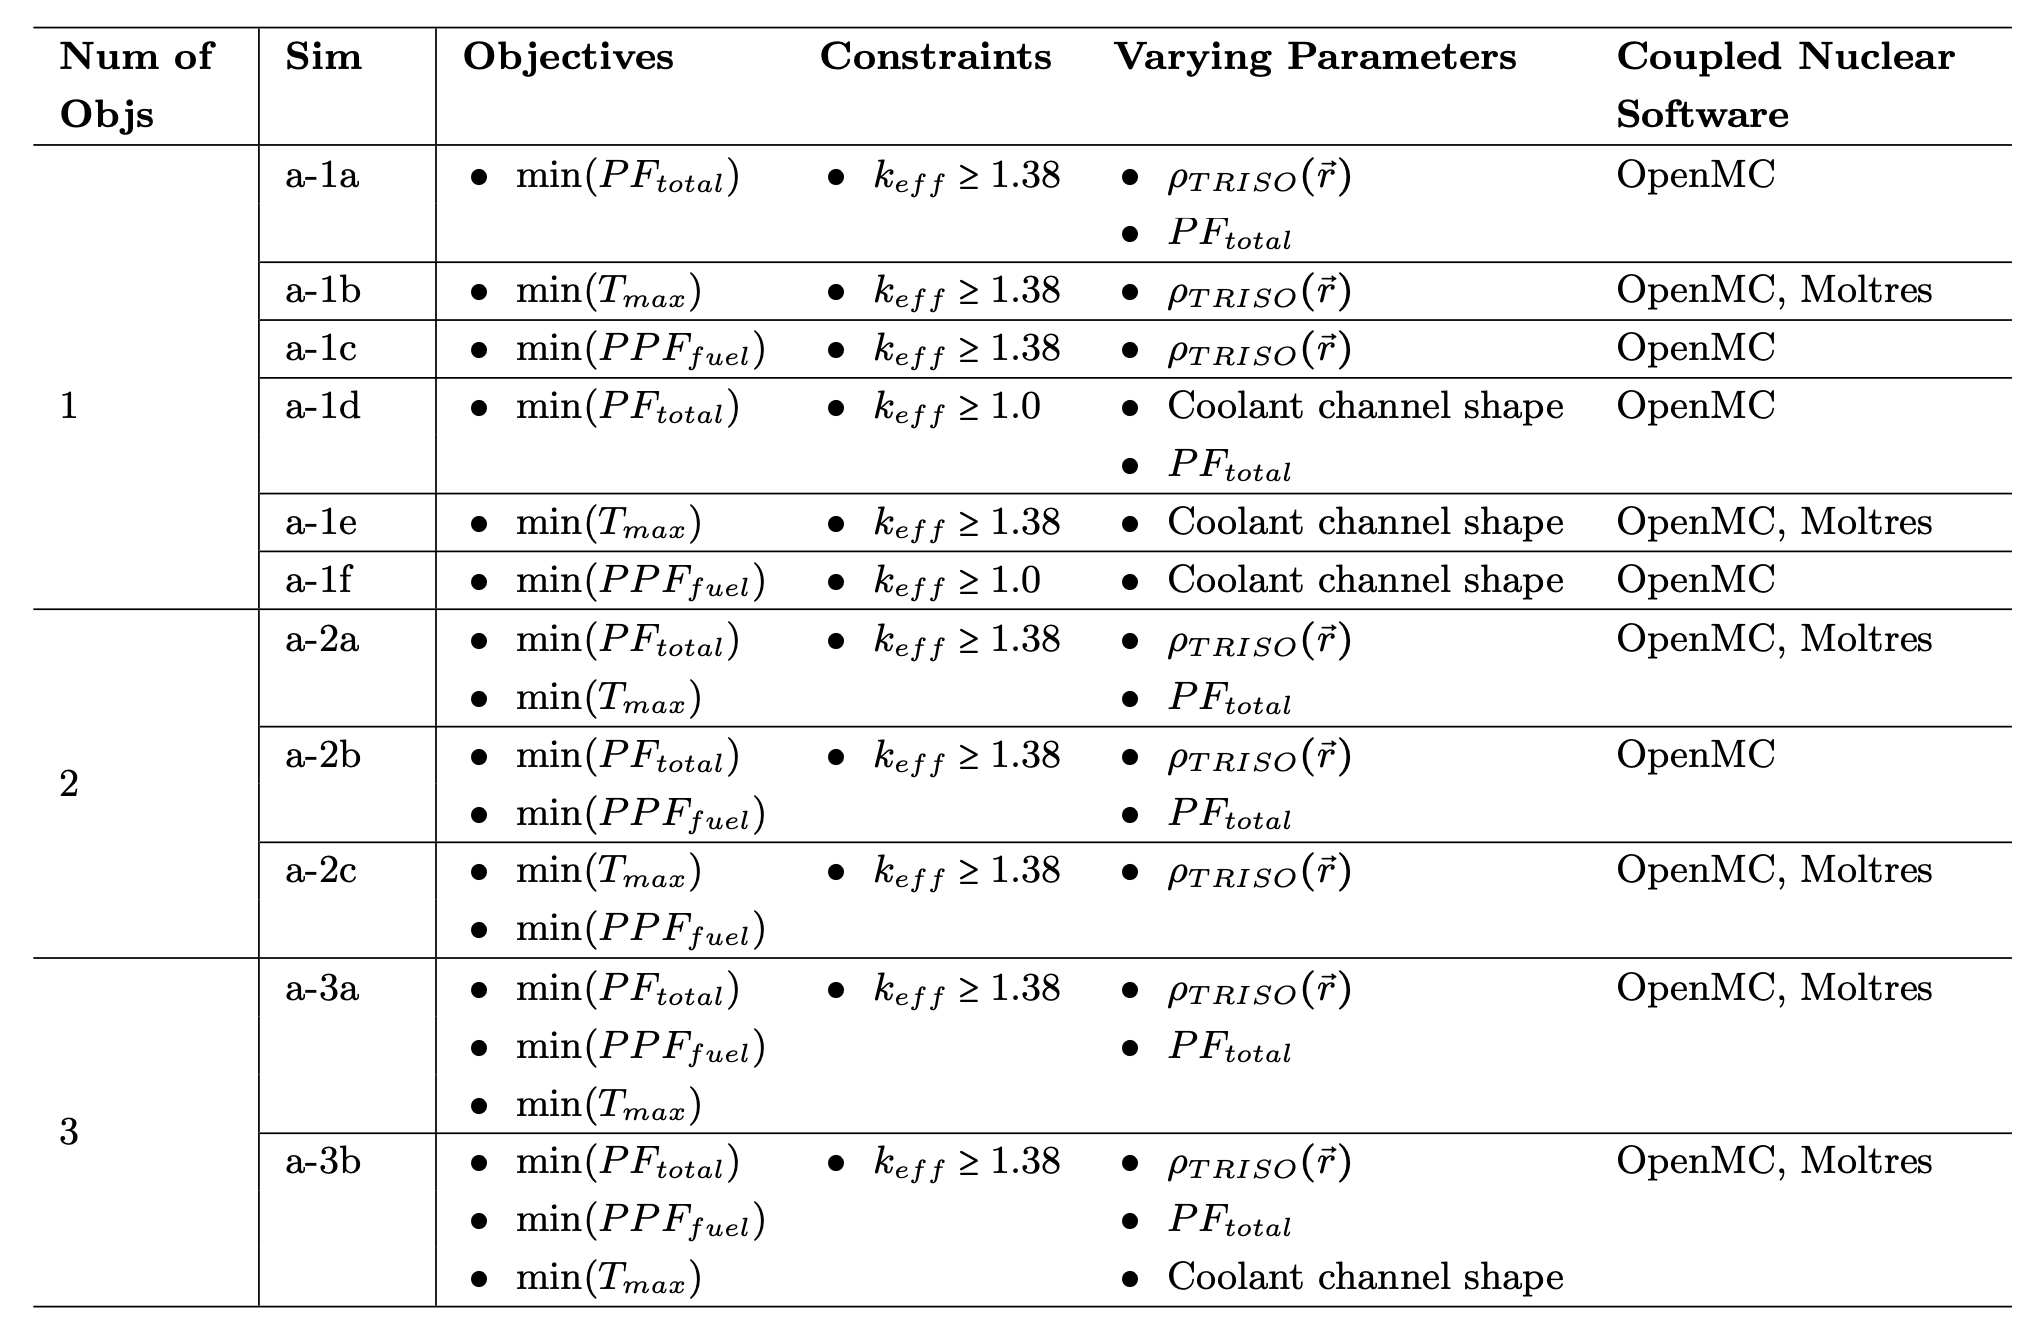
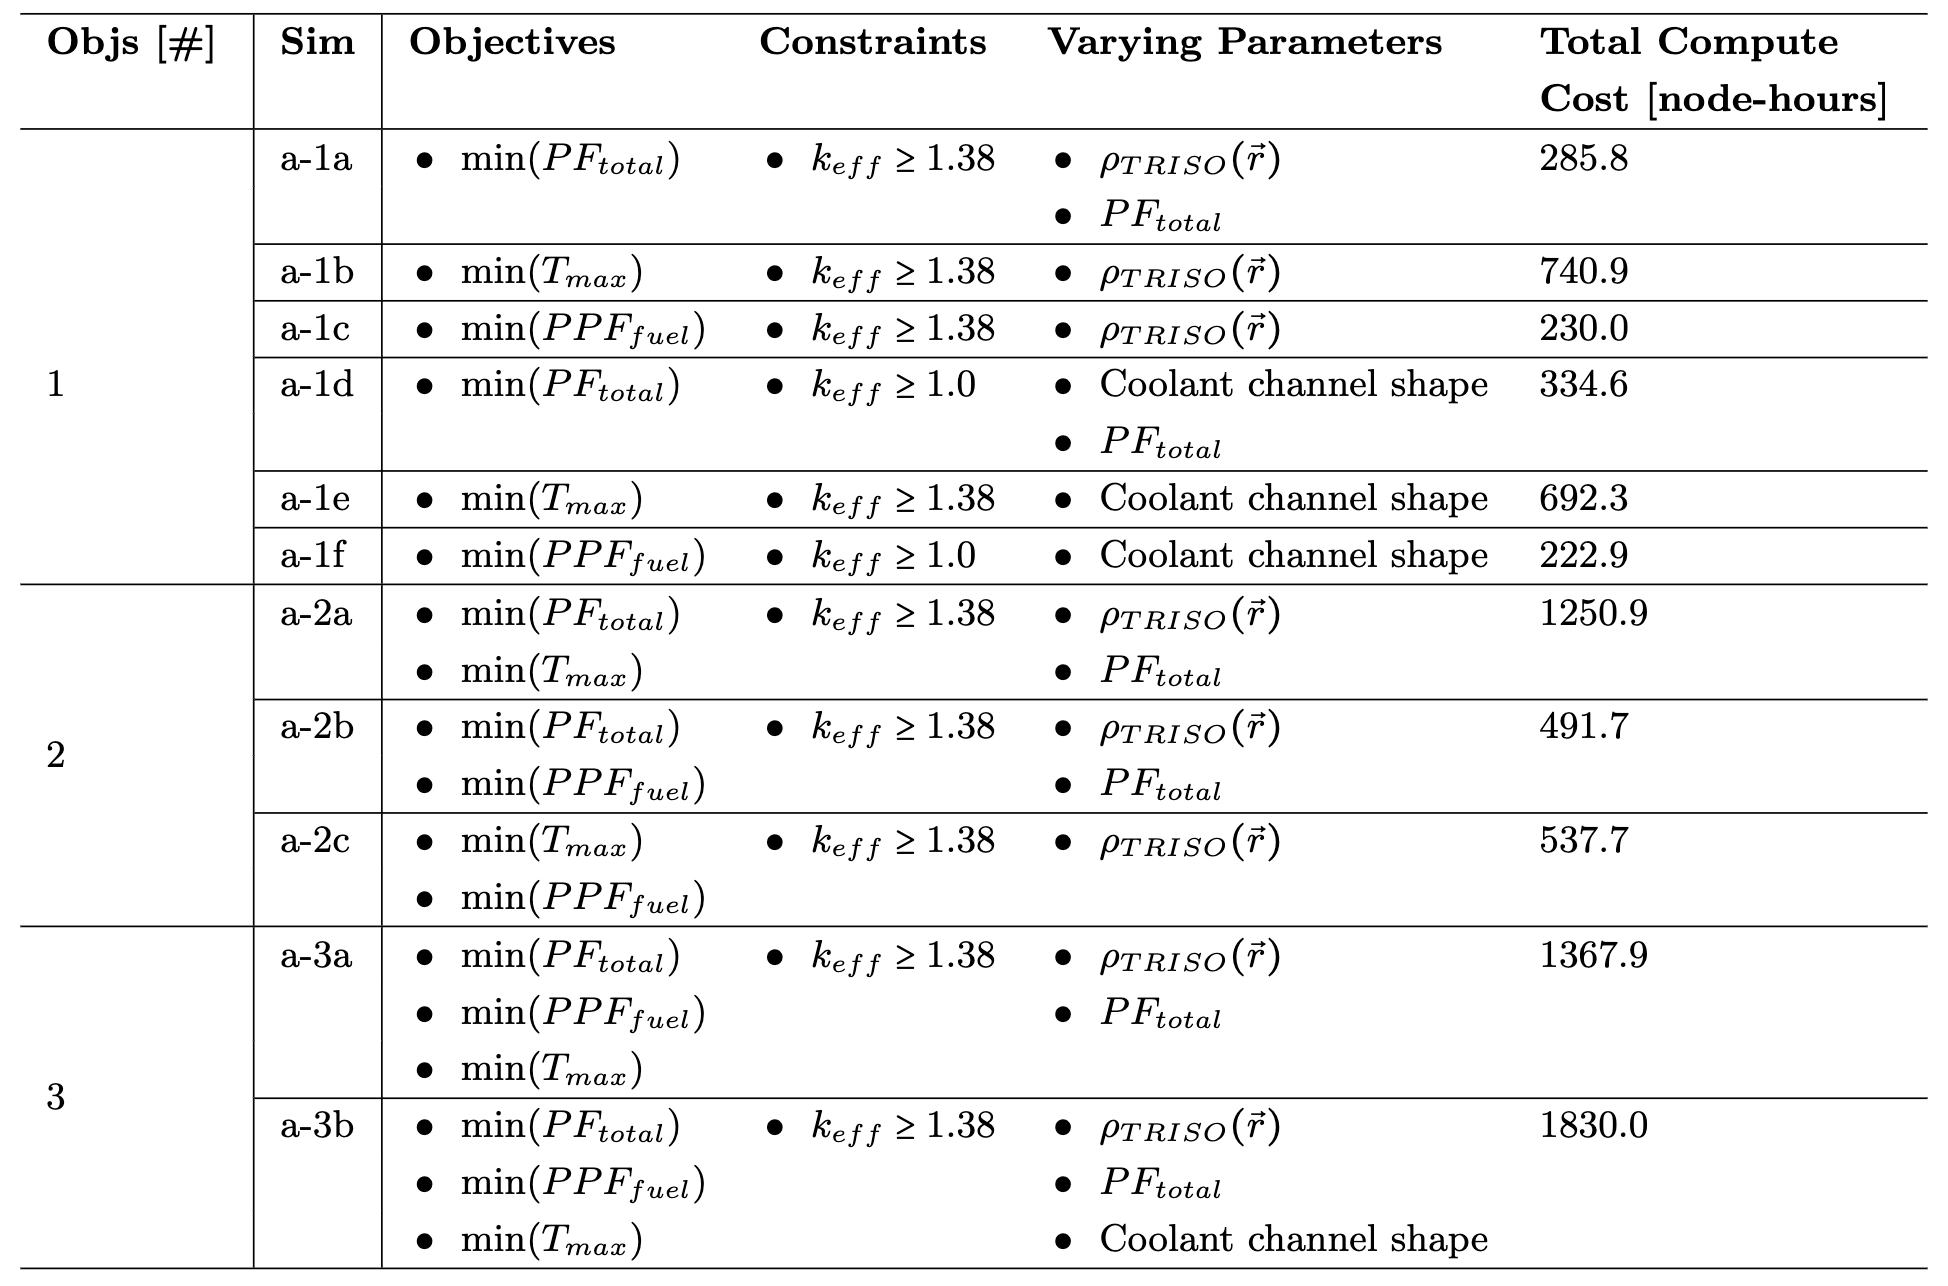
edits

Changed region(s): [[0.0, 0.0, 0.9856, 0.9953], [0.4004, 0.5288, 0.5236, 0.591], [0.77, 0.5288, 0.8932, 0.591]]

diff --git a/pres/ahtr_optimization.tex b/pres/ahtr_optimization.tex
@@ -77,14 +77,26 @@
 \begin{frame}
     \frametitle{AHTR One-Third Assembly Optimization Simulations}
     \only<1>{
+        \vspace{-0.2cm}
         \begin{figure}
             \includegraphics[width=0.8\linewidth]{figures/ahtr-assem-opt-table.png}
         \end{figure}
 
+        \vspace{-0.2cm}
         All the optimization simulations are run on the \textbf{Theta supercomputer} 
         at the Argonne Leadership Computing Facility \cite{noauthor_thetathetagpu_2022}.
 
         Each Theta node has 64 1.3-GHz Intel Xeon Phi 7230 processors.}
+        \only<2>{
+            \vspace{-0.2cm}
+            \begin{figure}
+                \includegraphics[width=0.8\linewidth]{figures/ahtr-assem-opt-table-annotated1.png}
+            \end{figure}
+    
+            Simulations a-1b and a-1e show \textbf{how the $\rho_{TRISO}(\vec{r})$ and 
+            coolant channel shape varying parameters respond to 
+            the minimize $T_{max}$ objective}.}
+    
 \end{frame}
 
 \begin{frame}
